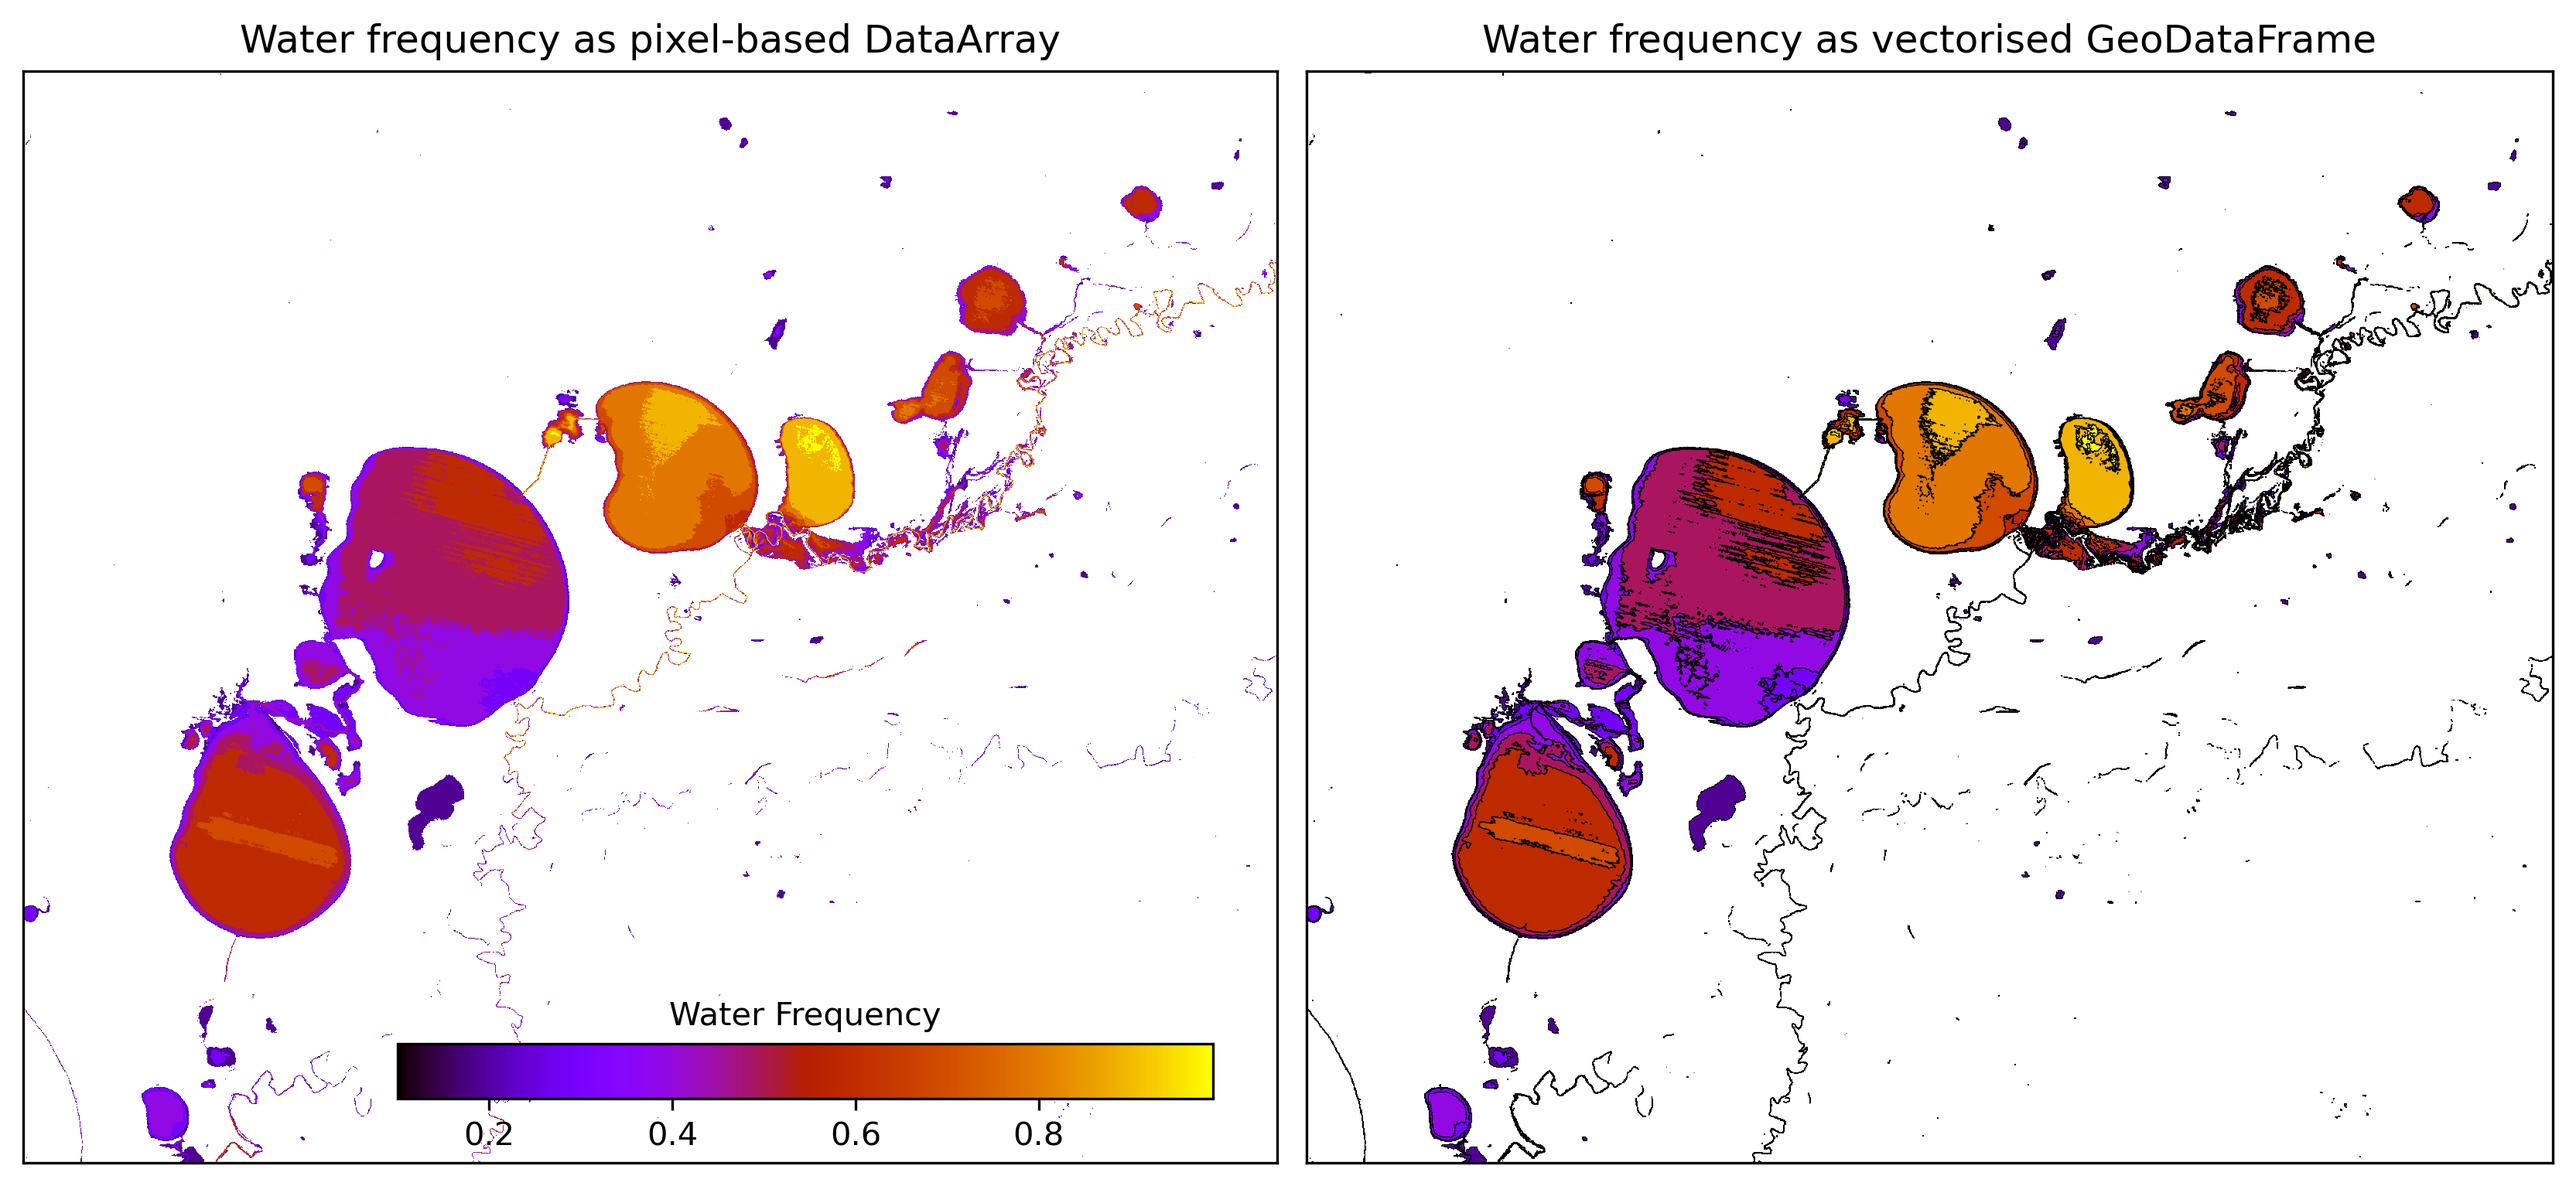
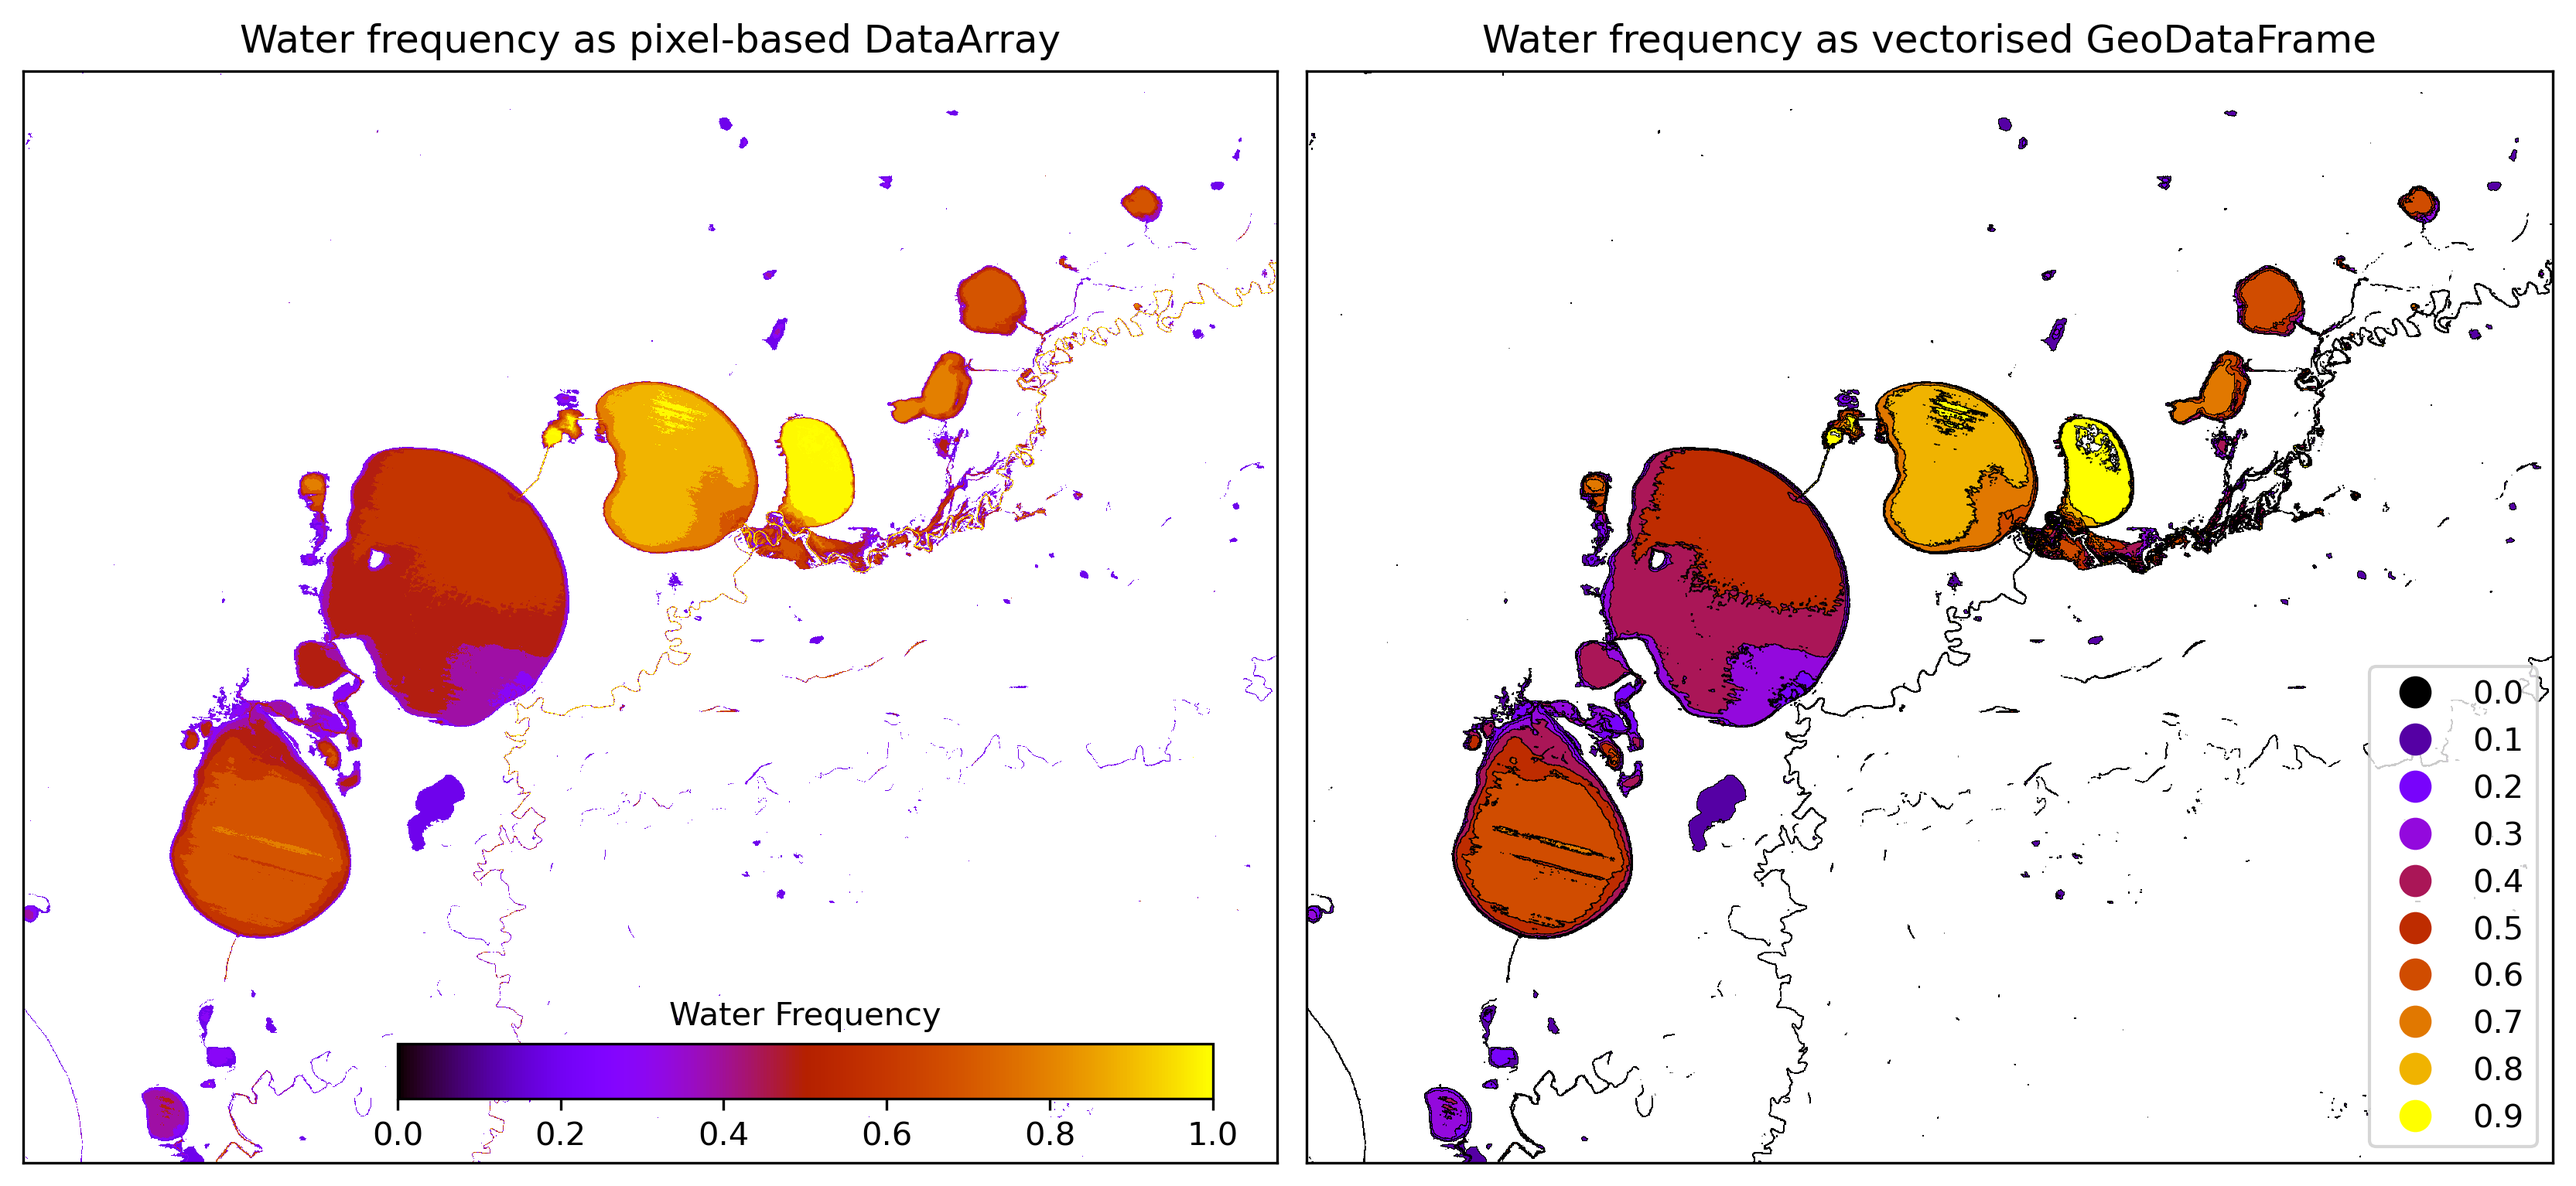
update citations in readme and redo figures

diff --git a/Tools/README.md b/Tools/README.md
@@ -91,6 +91,11 @@ from dea_tools.plotting import rgb
 
 ## Citing DEA Tools
 
-If you use any of the notebooks, code or tools in this repository in your work, please reference them using the following citation:
+If you use any of the code or tools in this repository in your work, please reference them using the dea-tools citation:
+
+> Burton et al. (2025). dea-tools: Geospatial analysis of satellite data using Xarray, the Open Data Cube, and Digital Earth Australia. Journal of
+Open Source Software, ¿VOL?(¿ISSUE?), ¿PAGE? https://doi.org/10.xxxxxx/draft.
+
+and/or the `dea-notebooks` citation: 
 
 > Krause, C., Dunn, B., Bishop-Taylor, R., Adams, C., Burton, C., Alger, M., Chua, S., Phillips, C., Newey, V., Kouzoubov, K., Leith, A., Ayers, D., Hicks, A., DEA Notebooks contributors 2021. Digital Earth Australia notebooks and tools repository. Geoscience Australia, Canberra. https://doi.org/10.26186/145234
